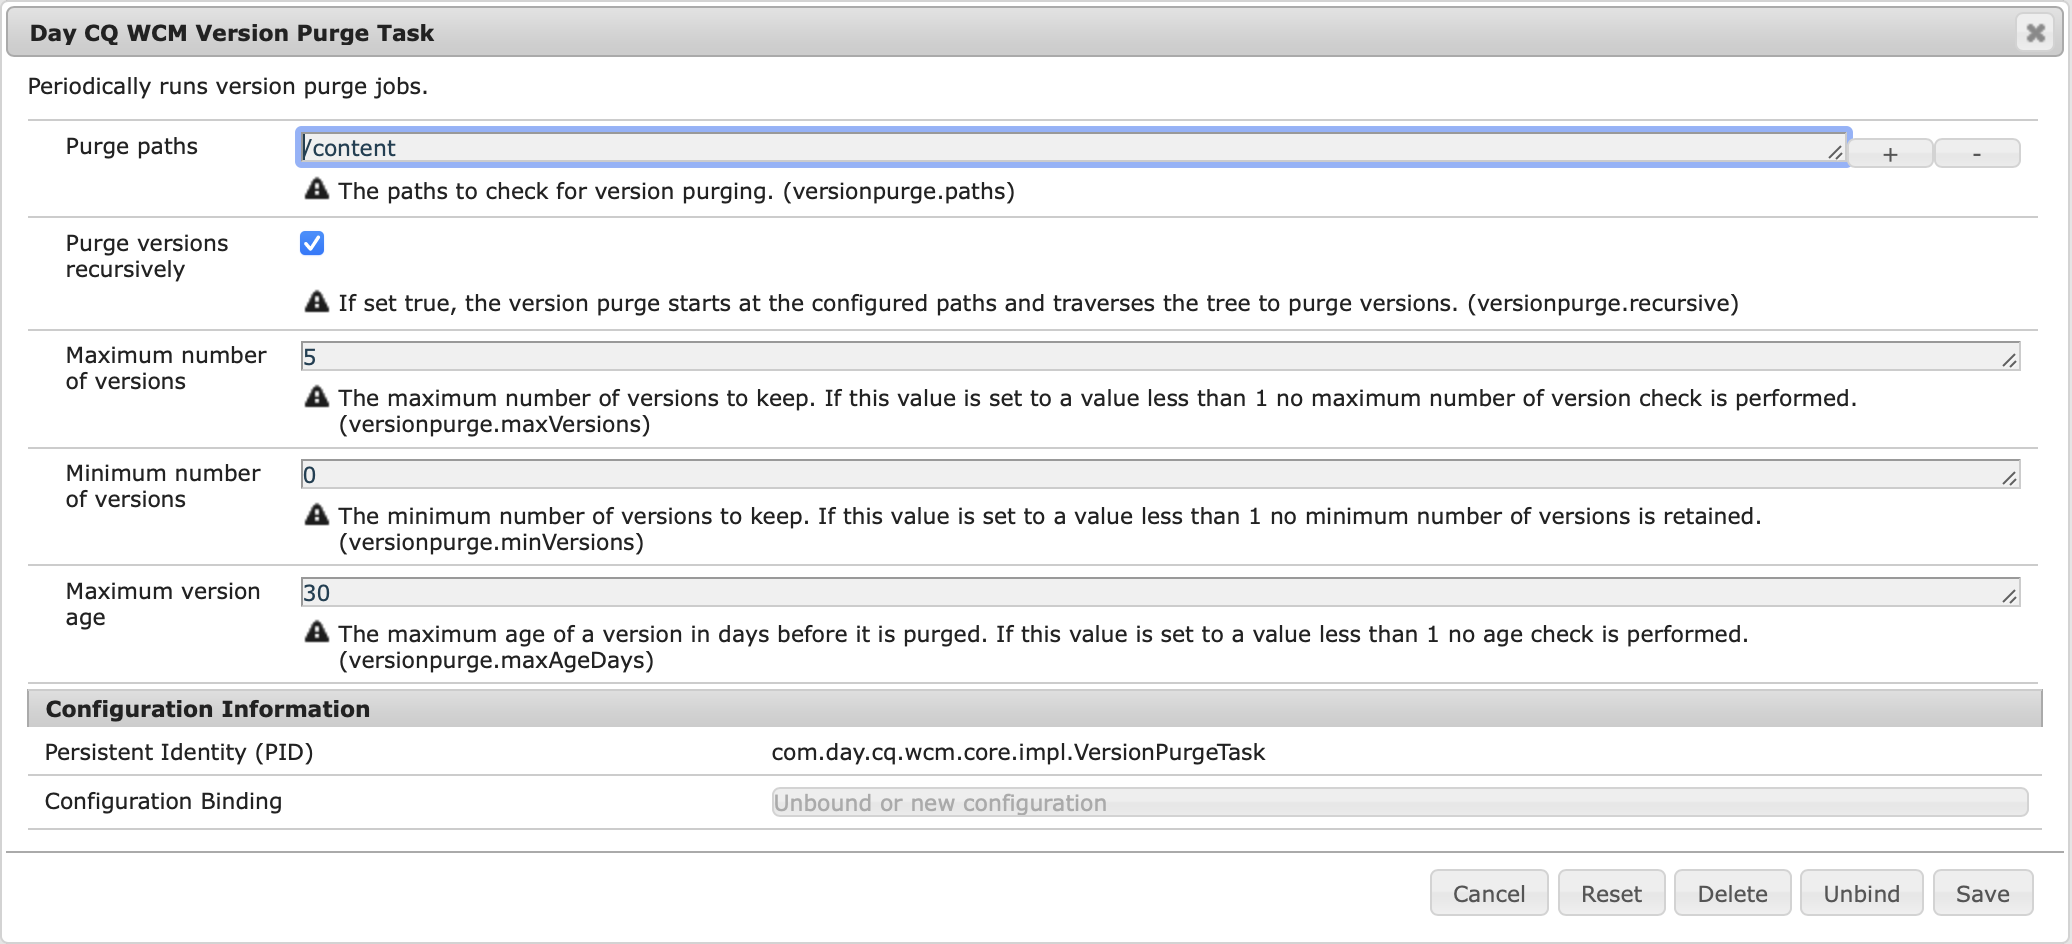
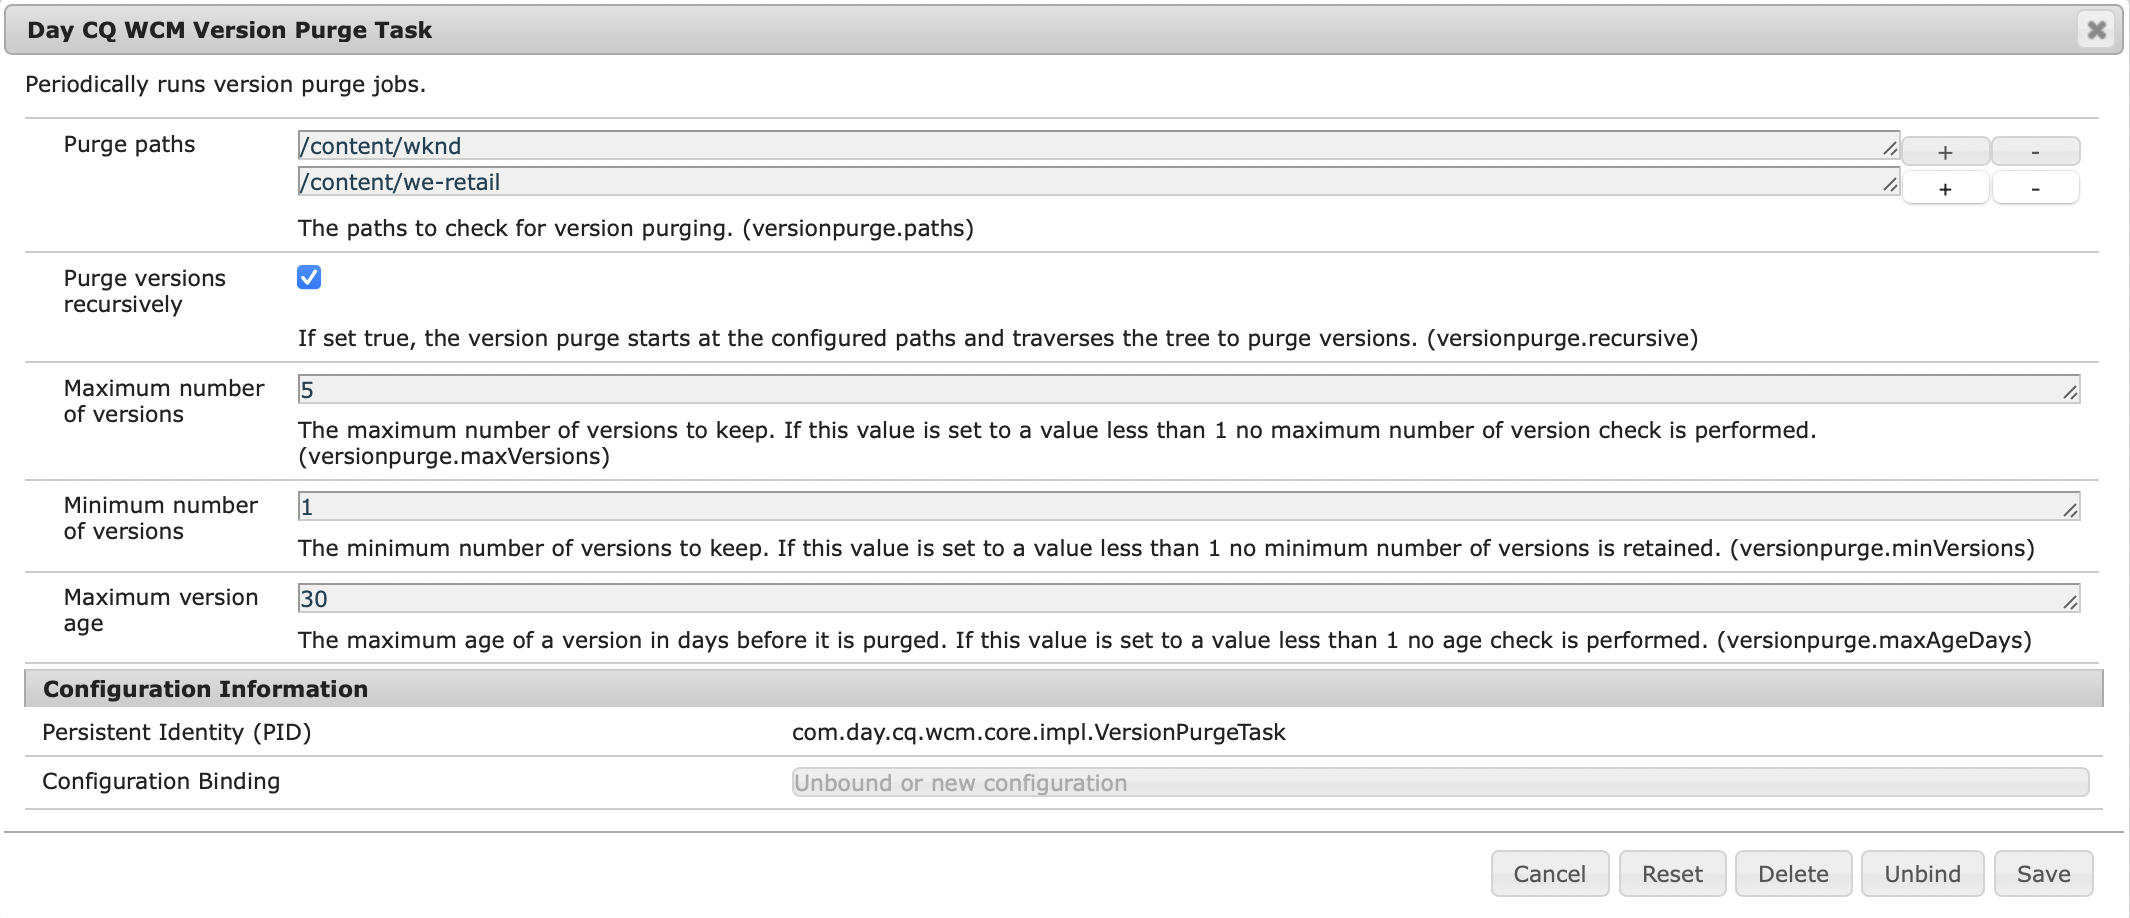
GH366-202210-02-01

Changed region(s): [[0.0, 0.0, 1.0, 1.0], [0.8958, 0.2135, 0.9575, 0.244], [0.0, 0.976, 0.0309, 1.0]]

diff --git a/help/sites-deploying/monitoring-and-maintaining.md b/help/sites-deploying/monitoring-and-maintaining.md
@@ -125,6 +125,12 @@ To purge versions of a web site, proceed as follows:
     * **Purge paths**
       Set the start path of the content to be purged (e.g. `/content/geometrixx-outdoors`).
 
+      >[!CAUTION]
+      >
+      >It is strongly recommended that your define multiple paths, for each of your websites.
+      >
+      >Defining a path with too many children lengthen the time to perform the purge.
+
     * **Purge versions recursively**
 
       * Unselect if you want to only purge the node defined by your path.
@@ -169,7 +175,7 @@ The process lists all the nodes that have been processed. During the process, a 
 Moreover the console provides useful information about the versions:
 
 * `V 1.0`: the version number.
-* `V 1.0.1`&#42;: the star indicates that the version is the current one.
+* `V 1.0.1`&#42;: the star indicates that the version is the current (base) version and cannot be purged.
 
 * `Thu Mar 15 2012 08:37:32 GMT+0100`: the date of the version.
 
